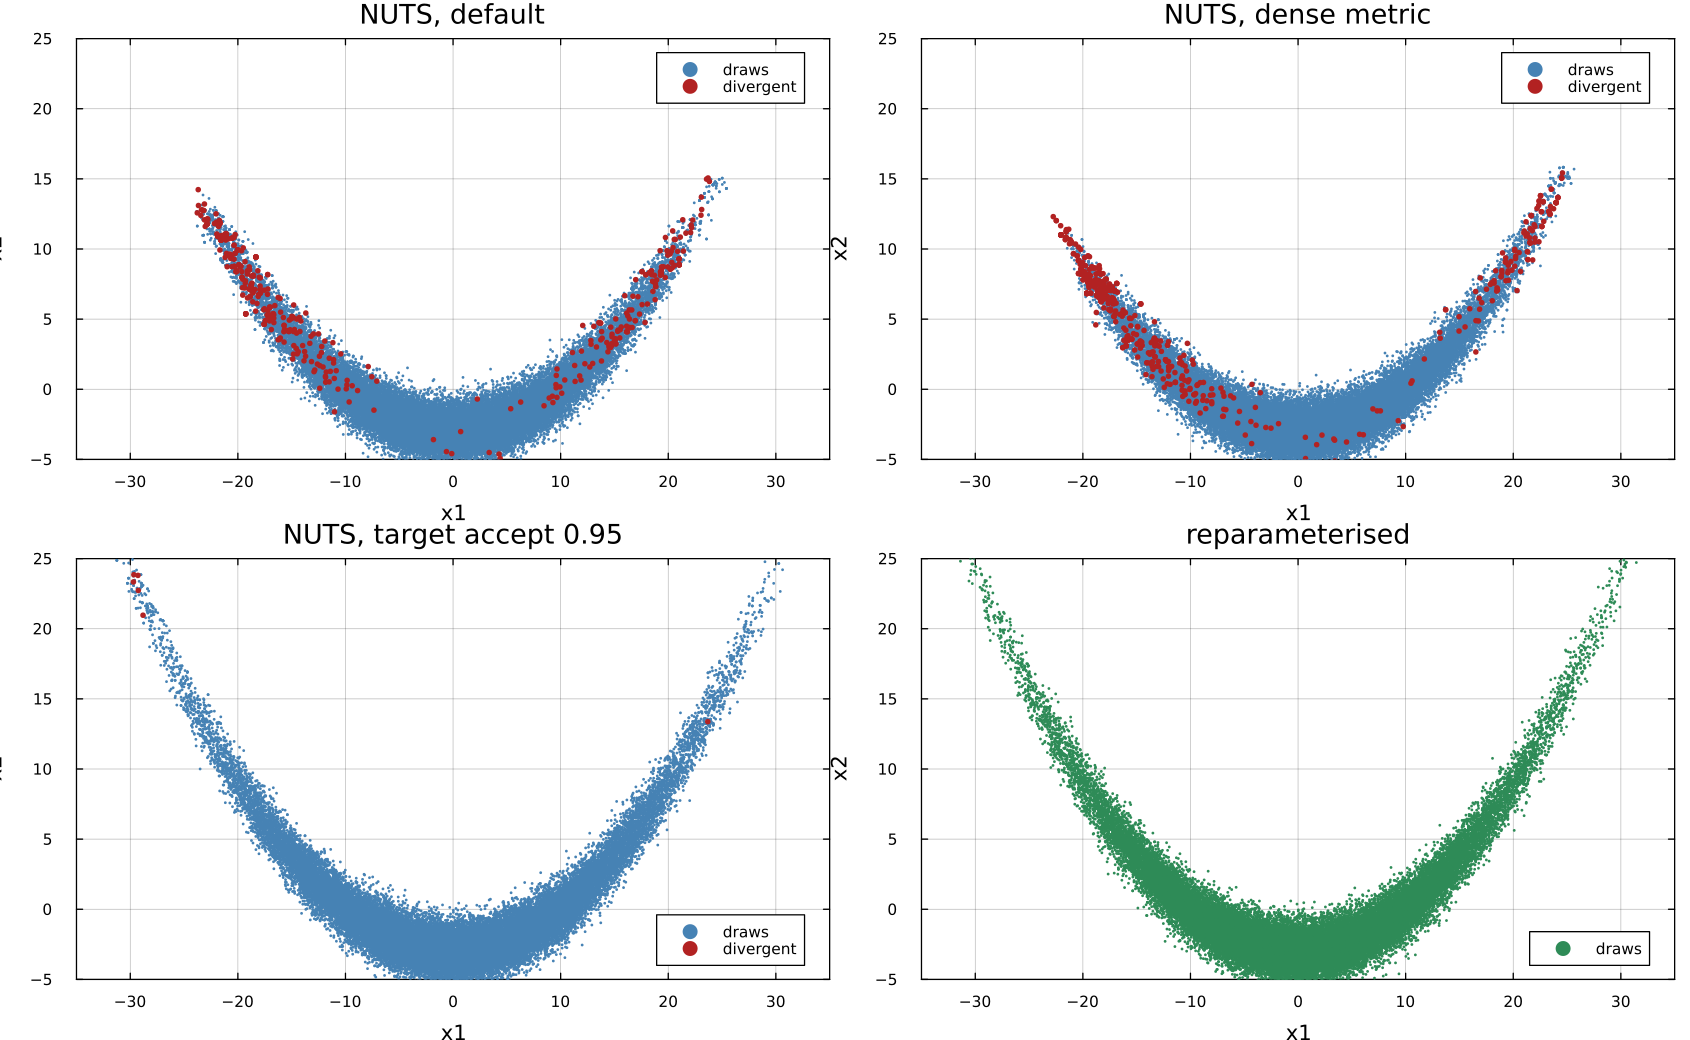
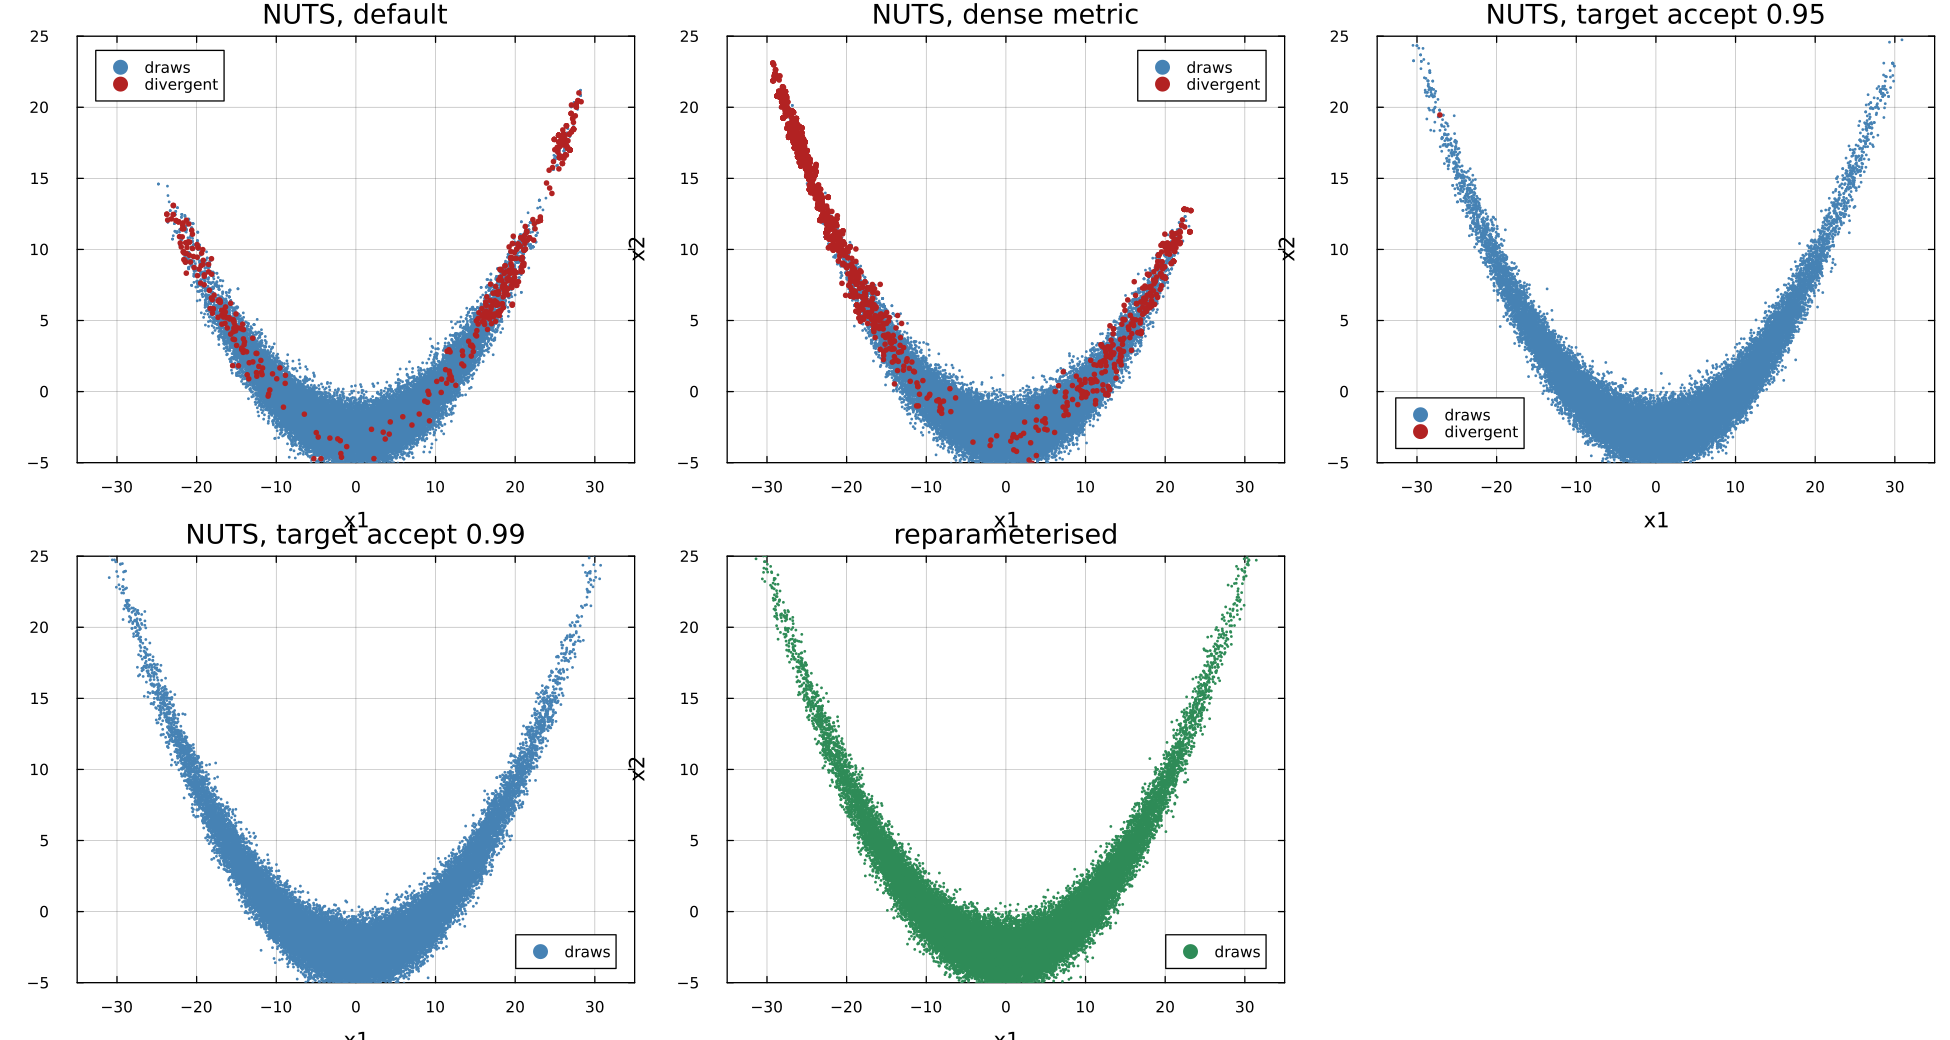
Correct the banana claim: a clean divergence count is not a correct answer
CI on Julia 1.11 failed the assertion that target acceptance 0.95 recovers the
banana's second marginal. It was right to. Measured over three seeds, 0.95
removes almost every divergence - 1 to 22, against 234 to 656 at the default -
while still understating sd(x2) by 5 to 9 percent, which is 6 to 12 Monte Carlo
standard errors. Only 0.99 recovers it. The test now asserts the silent failure
rather than the lucky seed, the results table reports three seeds per
configuration so it cannot contradict its own narrative, and the R-hat
separation test uses an effect size that does not sit on its threshold.

diff --git a/docs/results.md b/docs/results.md
@@ -79,11 +79,11 @@ The number of kernel steps per sweep is 5 for NUTS and 30 for the random walk. T
 
 | sampler | sd of x1 (exact 1) | z | correlation (exact 0.95) | ESS | ESS per second |
 |---|---:|---:|---:|---:|---:|
-| RWM, isotropic proposal | 1.0178 | 1.79 | 0.9520 | 2399 | 4565 |
-| RWM, adapted covariance | 0.9958 | -0.73 | 0.9499 | 12654 | 77799 |
-| NUTS, unit metric | 1.0021 | 0.29 | 0.9502 | 8254 | 3517 |
-| NUTS, diagonal metric | 0.9951 | -0.69 | 0.9495 | 8384 | 11193 |
-| NUTS, dense metric | 0.9947 | -1.08 | 0.9488 | 38616 | 62041 |
+| RWM, isotropic proposal | 1.0178 | 1.79 | 0.9520 | 2399 | 5690 |
+| RWM, adapted covariance | 0.9958 | -0.73 | 0.9499 | 12654 | 67686 |
+| NUTS, unit metric | 1.0021 | 0.29 | 0.9502 | 8254 | 1976 |
+| NUTS, diagonal metric | 0.9951 | -0.69 | 0.9495 | 8384 | 8762 |
+| NUTS, dense metric | 0.9947 | -1.08 | 0.9488 | 38616 | 73639 |
 
 ![traces on the correlated Gaussian](figures/correlated_traces.png)
 
@@ -103,12 +103,15 @@ The marginal of `v` is exactly its prior, `Normal(0, 3)`, which is what makes th
 
 Exact marginals: `x1 ~ Normal(0, 10)` and `Var[x2] = 1 + 2 b^2 100^2 = 19.00`.
 
-| configuration | sd of x1 (exact 10) | sd of x2 (exact 4.359) | divergences | ESS of x2 |
+Read the 0.95 row against the 0.99 row. Raising the target acceptance rate from the default to 0.95 removes almost all the divergences, so the run looks clean, and the standard deviation of x2 is still wrong by 5 to 9 percent - 6 to 12 Monte Carlo standard errors, across several seeds. Only at 0.99 does the sampler actually recover the marginal. The absence of divergences is not evidence of correctness, and this is the cheapest demonstration of that in the repository.
+
+| configuration | sd of x1 (exact 10) | sd of x2 over 3 seeds (exact 4.359) | divergences | ESS of x2 |
 |---|---:|---:|---:|---:|
-| NUTS, default | 9.380 | 3.448 | 427 | 964 |
-| NUTS, dense metric | 9.305 | 3.384 | 587 | 862 |
-| NUTS, target accept 0.95 | 10.048 | 4.354 | 6 | 4113 |
-| reparameterised, x2 = z + b(x1^2 - 100) | 10.002 | 4.432 | 0 | - |
+| NUTS, default | 9.306 | 3.366 to 3.682 | 234 to 656 | 903 |
+| NUTS, dense metric | 9.758 | 3.094 to 5.596 | 198 to 1746 | 1211 |
+| NUTS, target accept 0.95 | 9.773 | 3.965 to 4.117 | 1 to 22 | 5003 |
+| NUTS, target accept 0.99 | 10.036 | 4.269 to 4.517 | 0 to 0 | 4901 |
+| reparameterised, x2 = z + b(x1^2 - 100) | 10.002 | 4.432 (1 seed) | 0 | - |
 
 ![banana](figures/banana.png)
 

diff --git a/README.md b/README.md
@@ -76,10 +76,22 @@ measurable rather than illustrative.
 
 ![Neal's funnel](docs/figures/funnel.png)
 
-Red points are divergent transitions. The same story holds for the banana, where
-the default step size understates `sd(x2)` by 21% with 427 divergences, a dense
-metric does not help because the problem is local curvature, and either a
-smaller step size or a reparameterisation fixes it.
+Red points are divergent transitions. The banana tells a sharper version of the
+same story, over three seeds each:
+
+| configuration | sd of x2 (exact 4.359) | divergences |
+|---|---:|---:|
+| NUTS, default | 3.37 to 3.68 | 234 to 656 |
+| NUTS, dense metric | 3.09 to 5.60 | 198 to 1746 |
+| NUTS, target accept 0.95 | 3.97 to 4.12 | 1 to 22 |
+| NUTS, target accept 0.99 | 4.27 to 4.52 | 0 |
+
+A dense metric does not help, because the problem is local curvature rather than
+global scale. Raising the target acceptance rate to 0.95 removes almost every
+divergence - the run *looks* clean - and still leaves the answer wrong by 6 to 12
+Monte Carlo standard errors. Only at 0.99, or after reparameterising, does it
+recover. A clean divergence count is not evidence of a correct answer, and this
+is the cheapest demonstration of that here.
 
 ### Negative controls
 
